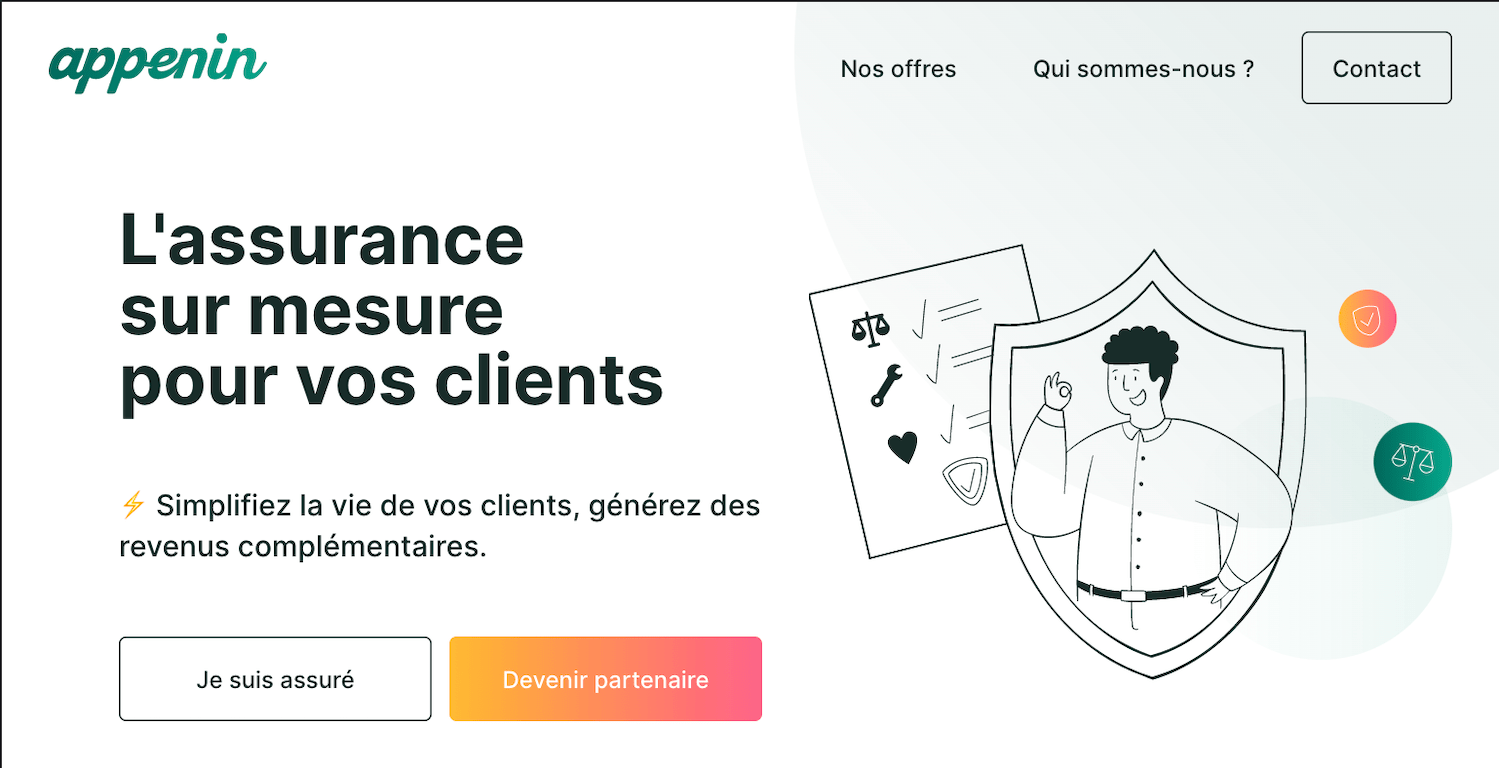
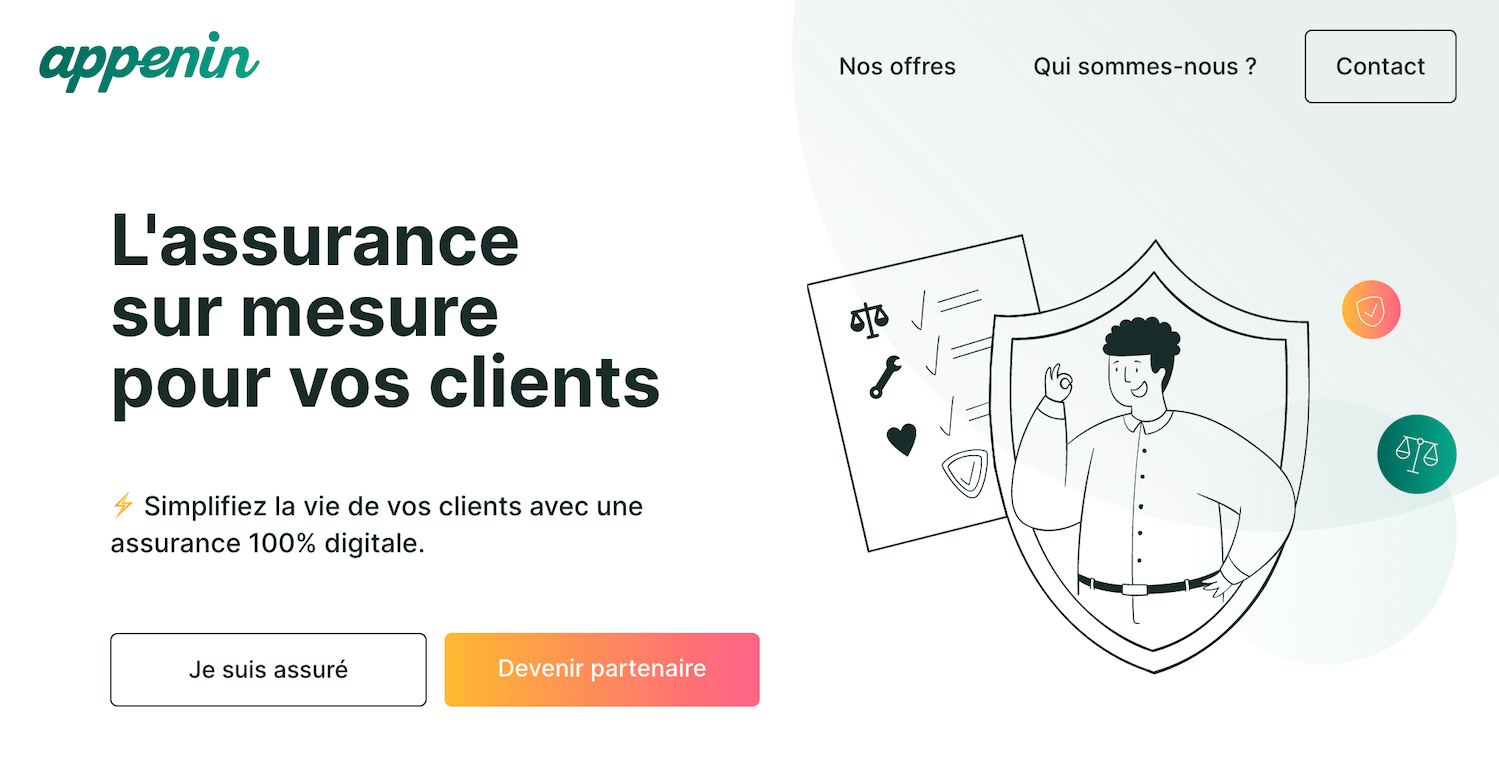
feat: remove comma and add the new home page screenshot

diff --git a/src/components/home/Hero.tsx b/src/components/home/Hero.tsx
@@ -20,7 +20,7 @@ export const Hero = forwardRef<HTMLElement, HeroProps>((props, ref) => (
             pour vos clients
           </h1>
           <h3 data-testid="hero-sub-header">
-            ⚡ Simplifiez la vie de vos clients, avec une assurance 100% digitale.
+            ⚡ Simplifiez la vie de vos clients avec une assurance 100%&nbsp;digitale.
           </h3>
           <footer data-testid="hero-footer">
             <Button
